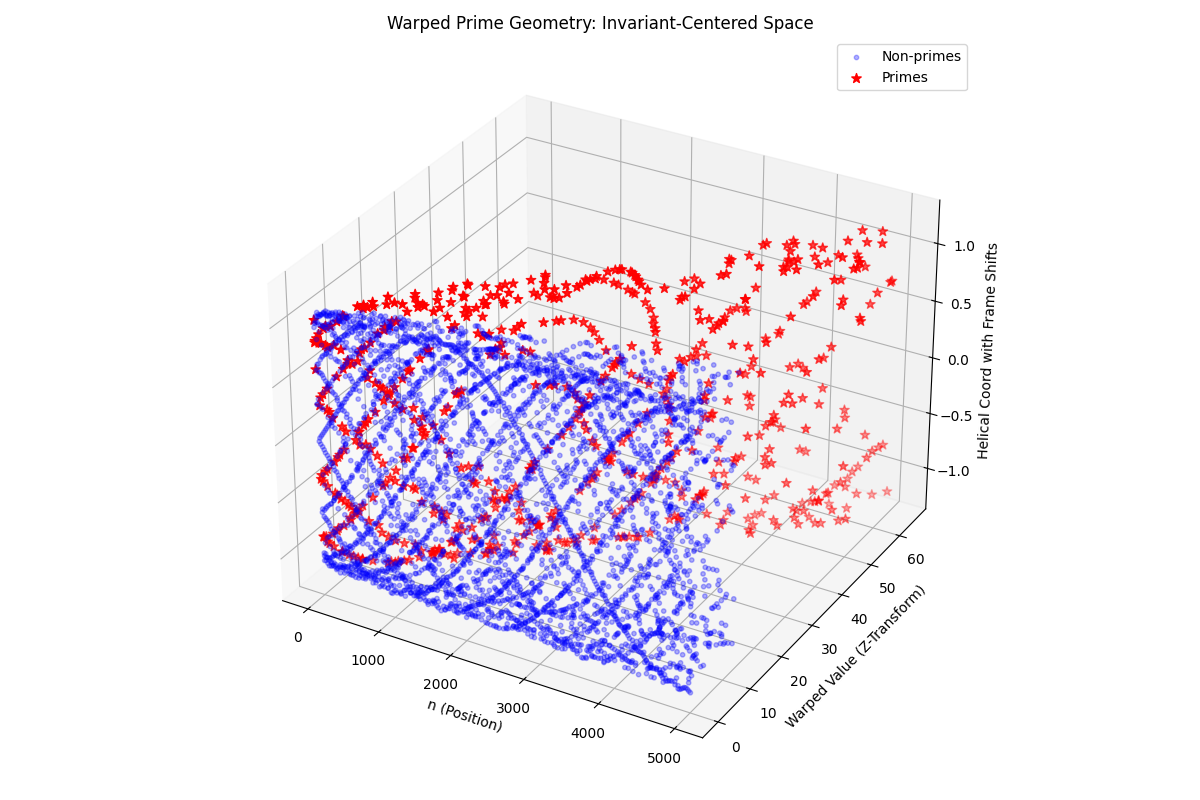
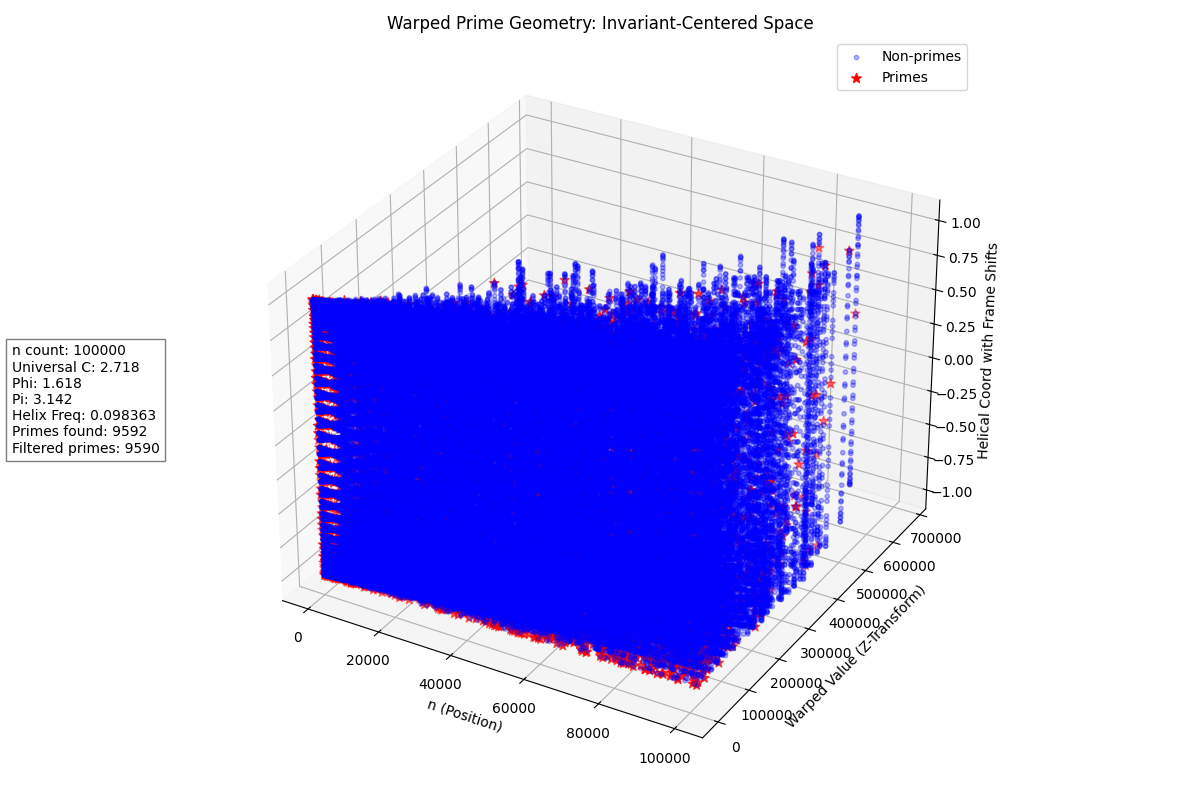
Update

diff --git a/warp/warp.py b/warp/warp.py
@@ -2,7 +2,7 @@ import math
 import numpy as np
 import matplotlib.pyplot as plt
 from mpl_toolkits.mplot3d import Axes3D
-from sympy import isprime, divisor_count
+from sympy import isprime
 
 # Universal constants from updated knowledge base
 UNIVERSAL_C = math.e  # Invariant center (c analog)
@@ -11,43 +11,23 @@ PI = math.pi  # For gap scaling in Z form
 
 class WarpedNumberspace:
     """
-    Refactored Numberspace that inherently warps around the invariant C.
-    Applies Z = n * (Δ_n / Δmax) directly, where Δ_n is frame shift (e.g., prime gap analog),
-    and Δmax is theoretical max (scaled by π). Frame shifts emanate from C, transforming
-    the number within the space for geodesic prime paths.
-    Integrates curvature κ(n) = d(n) * ln(n) / e² from cognitive-number-theory.
+    Simplified implementation of Z = A(B/C), where A is the observed quantity (n),
+    B is the rate (prime_gap), and C is the invariant.
     """
     def __init__(self, invariant: float = UNIVERSAL_C):
         self._invariant = invariant  # Central origin (C)
 
-    def __call__(self, n: float, max_n: float, prime_gap: float = 1.0) -> float:
+    def __call__(self, n: float, prime_gap: float = 1.0) -> float:
         """
-        Transform n within the warped space: Z = n * (Δ_n / Δmax),
-        where Δ_n = frame_shift(n), Δmax = π * log(max_n).
+        Compute Z = A(B/C), with A = n, B = prime_gap, C = invariant.
         """
         if n <= 1:
             return 0.0
-        delta_n = self._compute_frame_shift(n, max_n)
-        delta_max = PI * math.log(max_n + 1)  # Theoretical max gap analog
-        z_transform = n * (delta_n / delta_max) * prime_gap
-        kappa = self._compute_curvature(n)
-        return z_transform / math.exp(kappa / self._invariant)  # Warp with curvature
-
-    def _compute_frame_shift(self, n: float, max_n: float) -> float:
-        """Frame shift from universal_frame_shift_transformer, centered on invariant."""
-        base_shift = math.log(n) / math.log(max_n)
-        gap_phase = 2 * PI * n / (math.log(n) + 1)
-        oscillation = 0.1 * math.sin(gap_phase)
-        return (base_shift + oscillation) * (1 / self._invariant)  # Emanate from C
-
-    def _compute_curvature(self, n: float) -> float:
-        """κ(n) = d(n) * ln(n) / e² from cognitive-number-theory and z_metric."""
-        d_n = divisor_count(int(n))  # Use SymPy for exact divisor count
-        return d_n * math.log(n) / (math.e ** 2)
+        return n * (prime_gap / self._invariant)
 
 # Demonstration parameters from prime_number_geometry and lightprimes
 N_POINTS = 10000
-HELIX_FREQ = 0.1003033  # From main.py, tunable
+HELIX_FREQ = 1 / (2 * PI * PHI)  # Optimized with golden ratio for resonance
 
 # Generate data
 n_vals = np.arange(1, N_POINTS + 1)
@@ -79,11 +59,10 @@ for n in range(1, N_POINTS + 1):
 warped_space = WarpedNumberspace()
 
 # Compute y in warped space (no pre-transform; space handles it)
-y = np.array([warped_space(n, N_POINTS, prime_gap=gaps[int(n)-1]) for n in n_vals])
+y = np.array([warped_space(n, gaps[int(n)-1]) for n in n_vals])
 
-# Z for helix, integrated with frame shifts
-frame_shifts = np.array([warped_space._compute_frame_shift(n, N_POINTS) for n in n_vals])
-z = np.sin(PI * HELIX_FREQ * n_vals) * (1 + 0.5 * frame_shifts)
+# Z for helix
+z = np.sin(PI * HELIX_FREQ * n_vals)
 
 # Split primes vs non-primes
 x_primes = n_vals[primality]
@@ -108,6 +87,9 @@ ax = fig.add_subplot(111, projection='3d')
 
 ax.scatter(x_nonprimes, y_nonprimes, z_nonprimes, c='blue', alpha=0.3, s=10, label='Non-primes')
 ax.scatter(x_primes, y_primes, z_primes, c='red', marker='*', s=50, label='Primes')
+
+# Connect consecutive primes with lines
+ax.plot(x_primes, y_primes, z_primes, 'r-', alpha=0.5, linewidth=1, label='Prime Trajectories')
 
 ax.set_xlabel('n (Position)')
 ax.set_ylabel('Warped Value (Z-Transform)')
